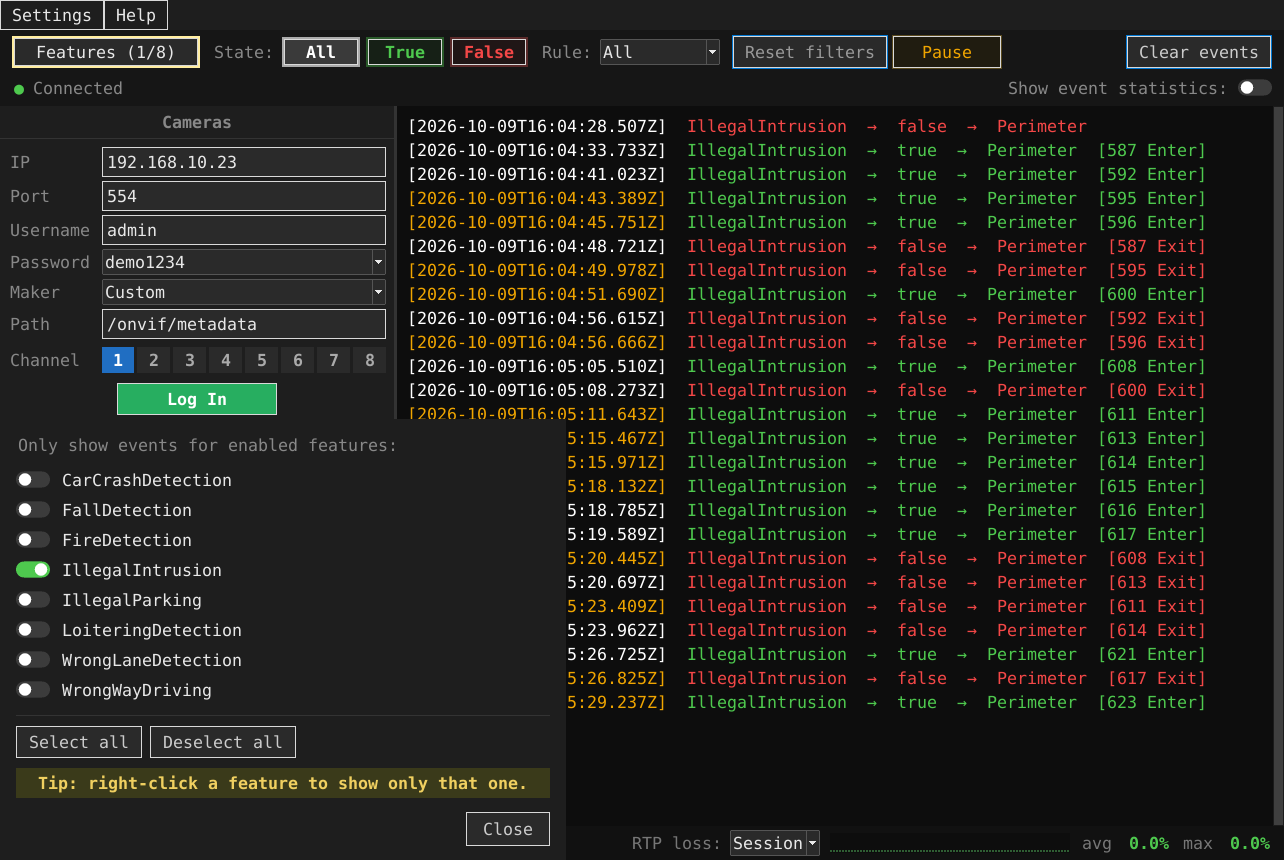
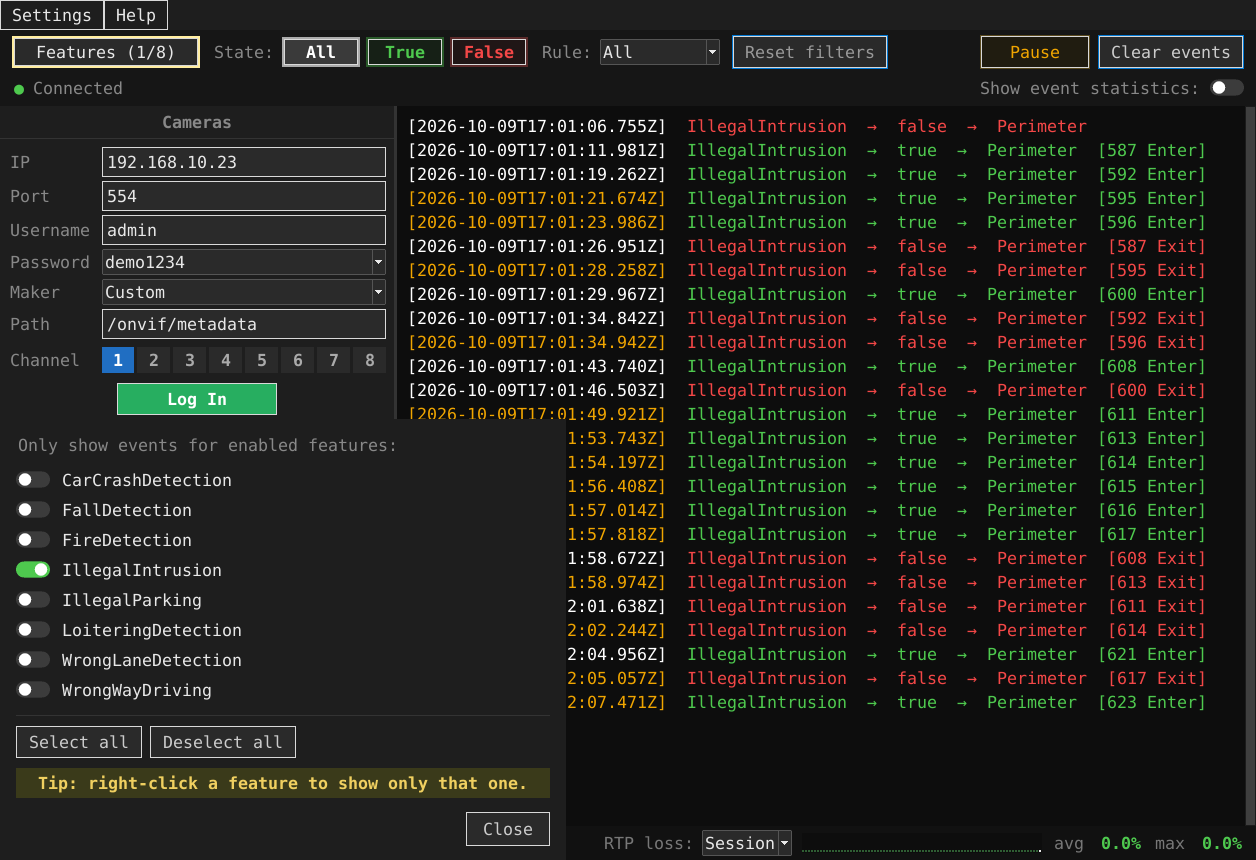
Site: screenshots and tutorial animations with Pause beside Clear events

diff --git a/index.html b/index.html
@@ -345,7 +345,7 @@ const DEMO_VIDEO = "media/demo.mp4";
 const DEMO_POSTER = "media/demo.jpg";
 // The screenshots' revision: tools/demo_screenshots.py sets it when it saves new
 // ones, so browsers and the Pages CDN fetch them again instead of a cached copy.
-const MEDIA_REV = "202610091638";
+const MEDIA_REV = "202610091704";
 const SCREENSHOTS = [
   ["media/screenshot-1.png", "Main window after 30 hours: cameras, live event log, memory and RTP loss"],
   ["media/screenshot-2.png", "Choose the camera's maker: the path of its metadata stream is filled in"],
